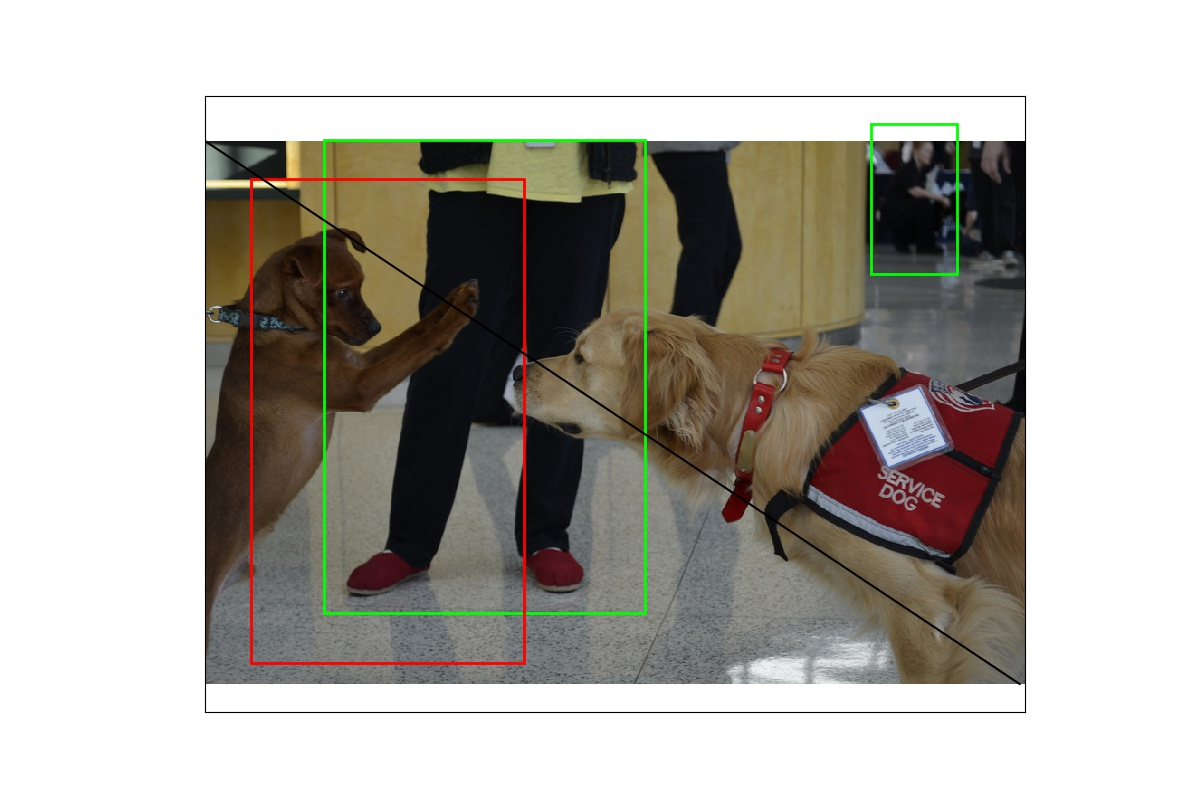
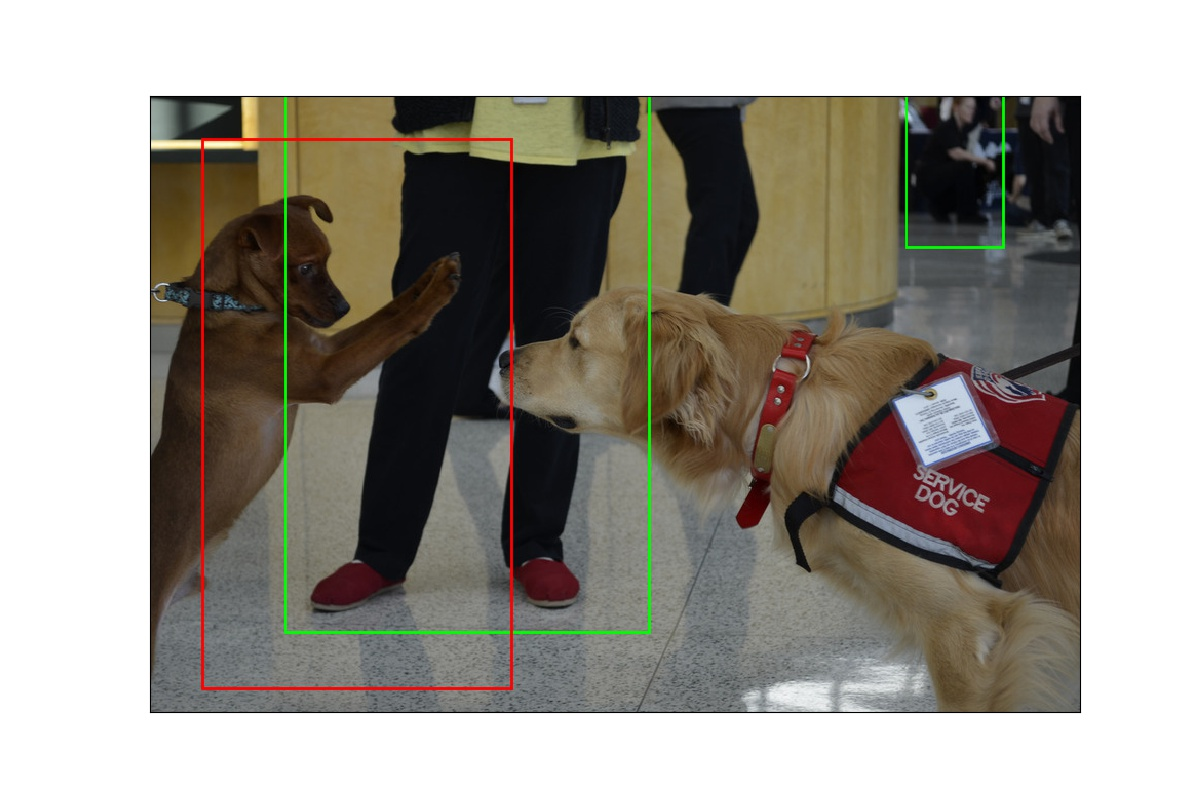
test perimeter detection4

diff --git a/perimeter_detection.py b/perimeter_detection.py
@@ -140,7 +140,7 @@ def perimeter_detection(weights_path, image_path, result_path, threshold, perime
                 continue
             current_axis.add_patch(
                 plt.Rectangle((xmin, ymin), xmax - xmin, ymax - ymin, color='#00FF00', fill=False, linewidth=2))
-        plt.plot([perimeter_a[0], perimeter_b[0]], [perimeter_a[1], perimeter_b[1]], 'k')
+        #plt.plot([perimeter_a[0], perimeter_b[0]], [perimeter_a[1], perimeter_b[1]], 'k')
         plt.savefig(result_path + '/perimeter_' + file_names[k], format='jpg')
         plt.close('all')
 
